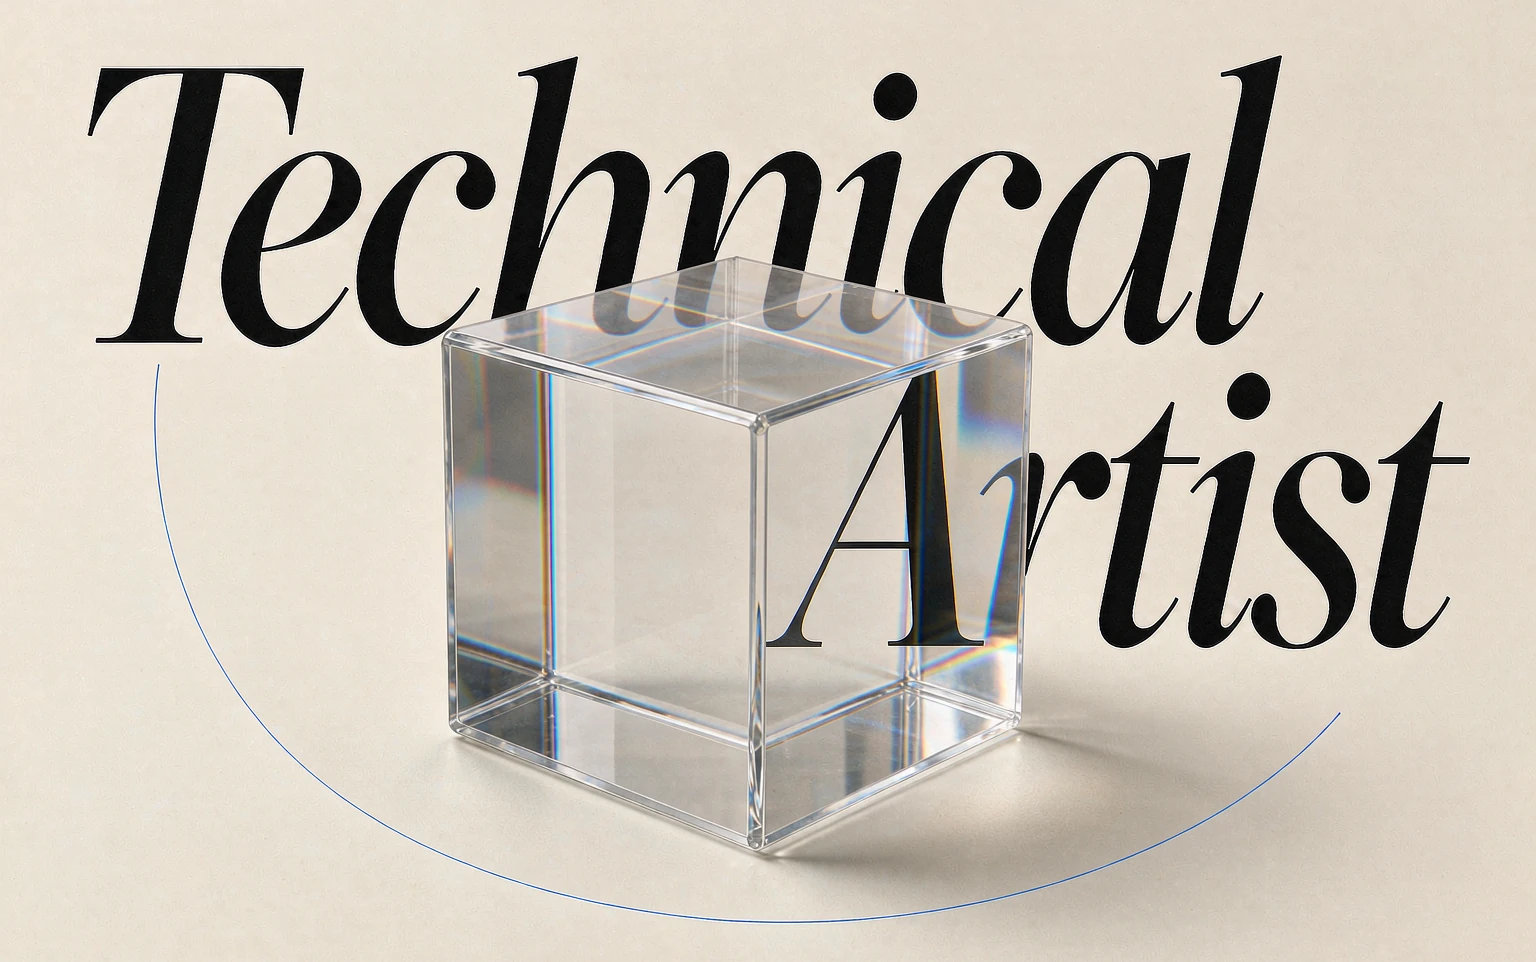
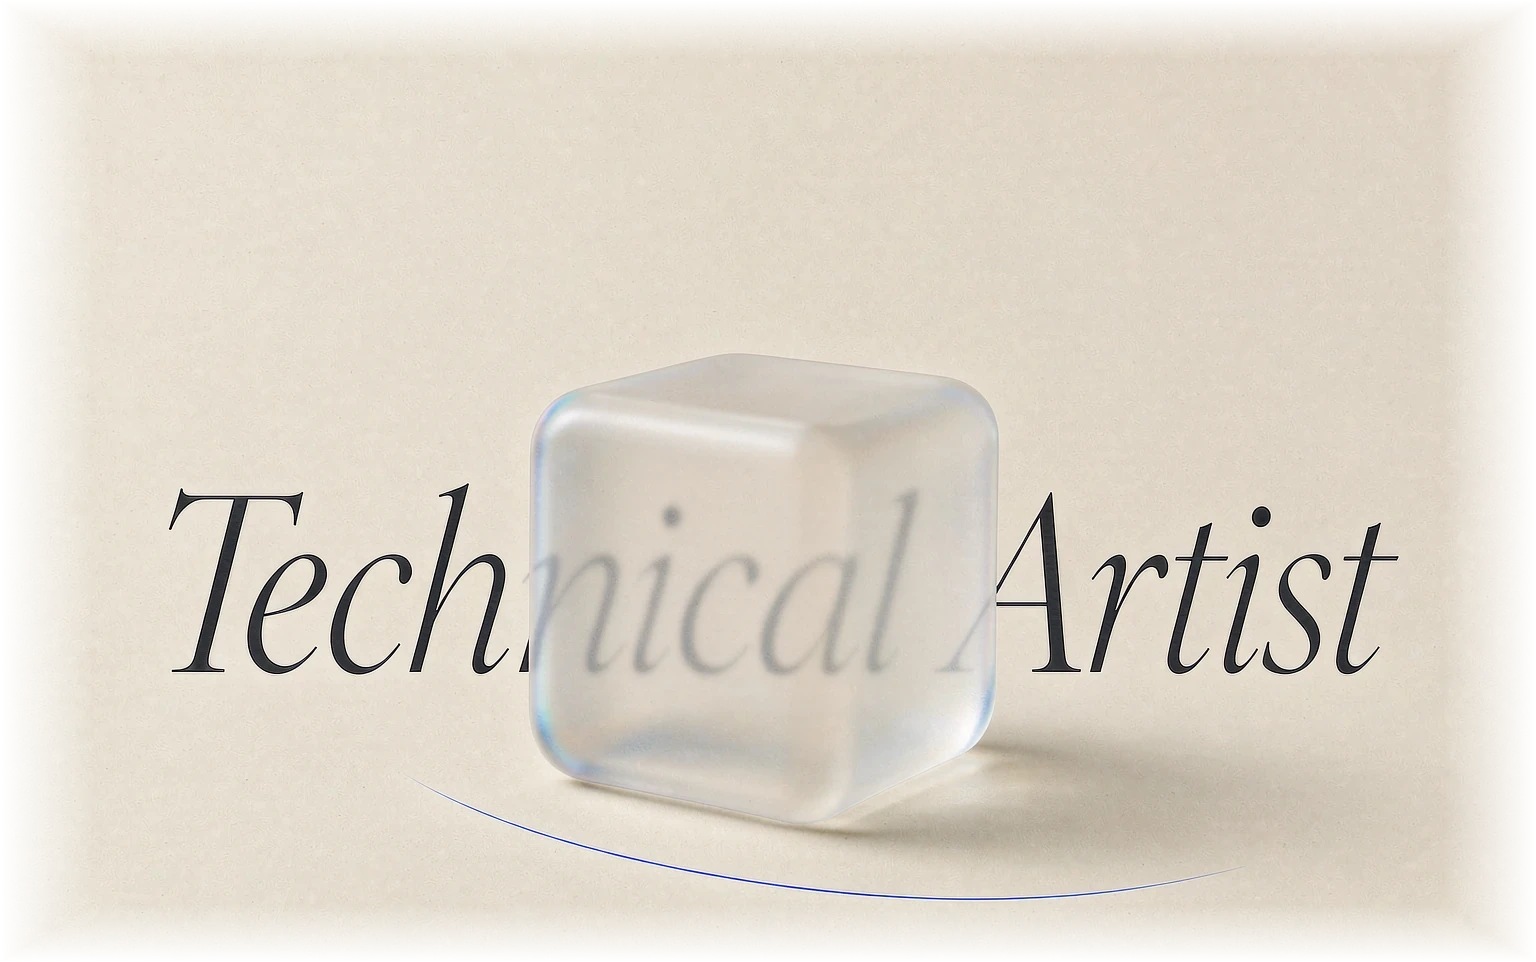
feat: editorial hero v24 - thin serif, frosted glass, 2/3 width, remove mascot

diff --git a/assets/refresh.js b/assets/refresh.js
@@ -305,6 +305,7 @@
     injectOpenSource();
     removeResume();
     removeWeChat();
+    removeCinnamor();
     injectCopyright();
     buildEditorialHero();
   }
@@ -327,6 +328,7 @@
       injectOpenSource();
       removeResume();
       removeWeChat();
+      removeCinnamor();
       injectCopyright();
       buildEditorialHero();
     } finally {
@@ -424,6 +426,11 @@
         p.textContent = t.replace("邮件或微信直接联系", "邮件直接联系");
       }
     });
+  }
+
+  // —— 移除导航栏左上角的玉桂狗 icon（保留 ZX 文字标识） ——
+  function removeCinnamor() {
+    document.querySelectorAll(".brand-cinnamon").forEach(function (img) { img.remove(); });
   }
 
   // —— 版权声明：插到页面最底部，声明原创归属 ——

diff --git a/index.html b/index.html
@@ -36,7 +36,7 @@
 
     <link rel="stylesheet" crossorigin href="./assets/index-DCW7S8X4.css?v=15">
 
-    <link rel="stylesheet" href="./assets/refresh.css?v=23">
+    <link rel="stylesheet" href="./assets/refresh.css?v=24">
 
   </head>
 
@@ -44,7 +44,7 @@
 
     <div id="root"></div>
 
-    <script src="./assets/refresh.js?v=23"></script>
+    <script src="./assets/refresh.js?v=24"></script>
 
   </body>
 

diff --git a/assets/refresh.css b/assets/refresh.css
@@ -1332,11 +1332,11 @@ body::after {
   display: none !important;
 }
 
-/* 主视觉图：铺满容器宽度，米白底与页面无缝 */
+/* 主视觉图：缩到容器 ~84%（图内文字占图宽约 80% → 字实际占页面 ~2/3），居中 */
 .ed-hero-on .ed-hero-art {
   display: block;
-  width: 100%;
-  max-width: 1320px;
+  width: 84%;
+  max-width: 1100px;
   height: auto;
   margin: 0 auto;
 }
